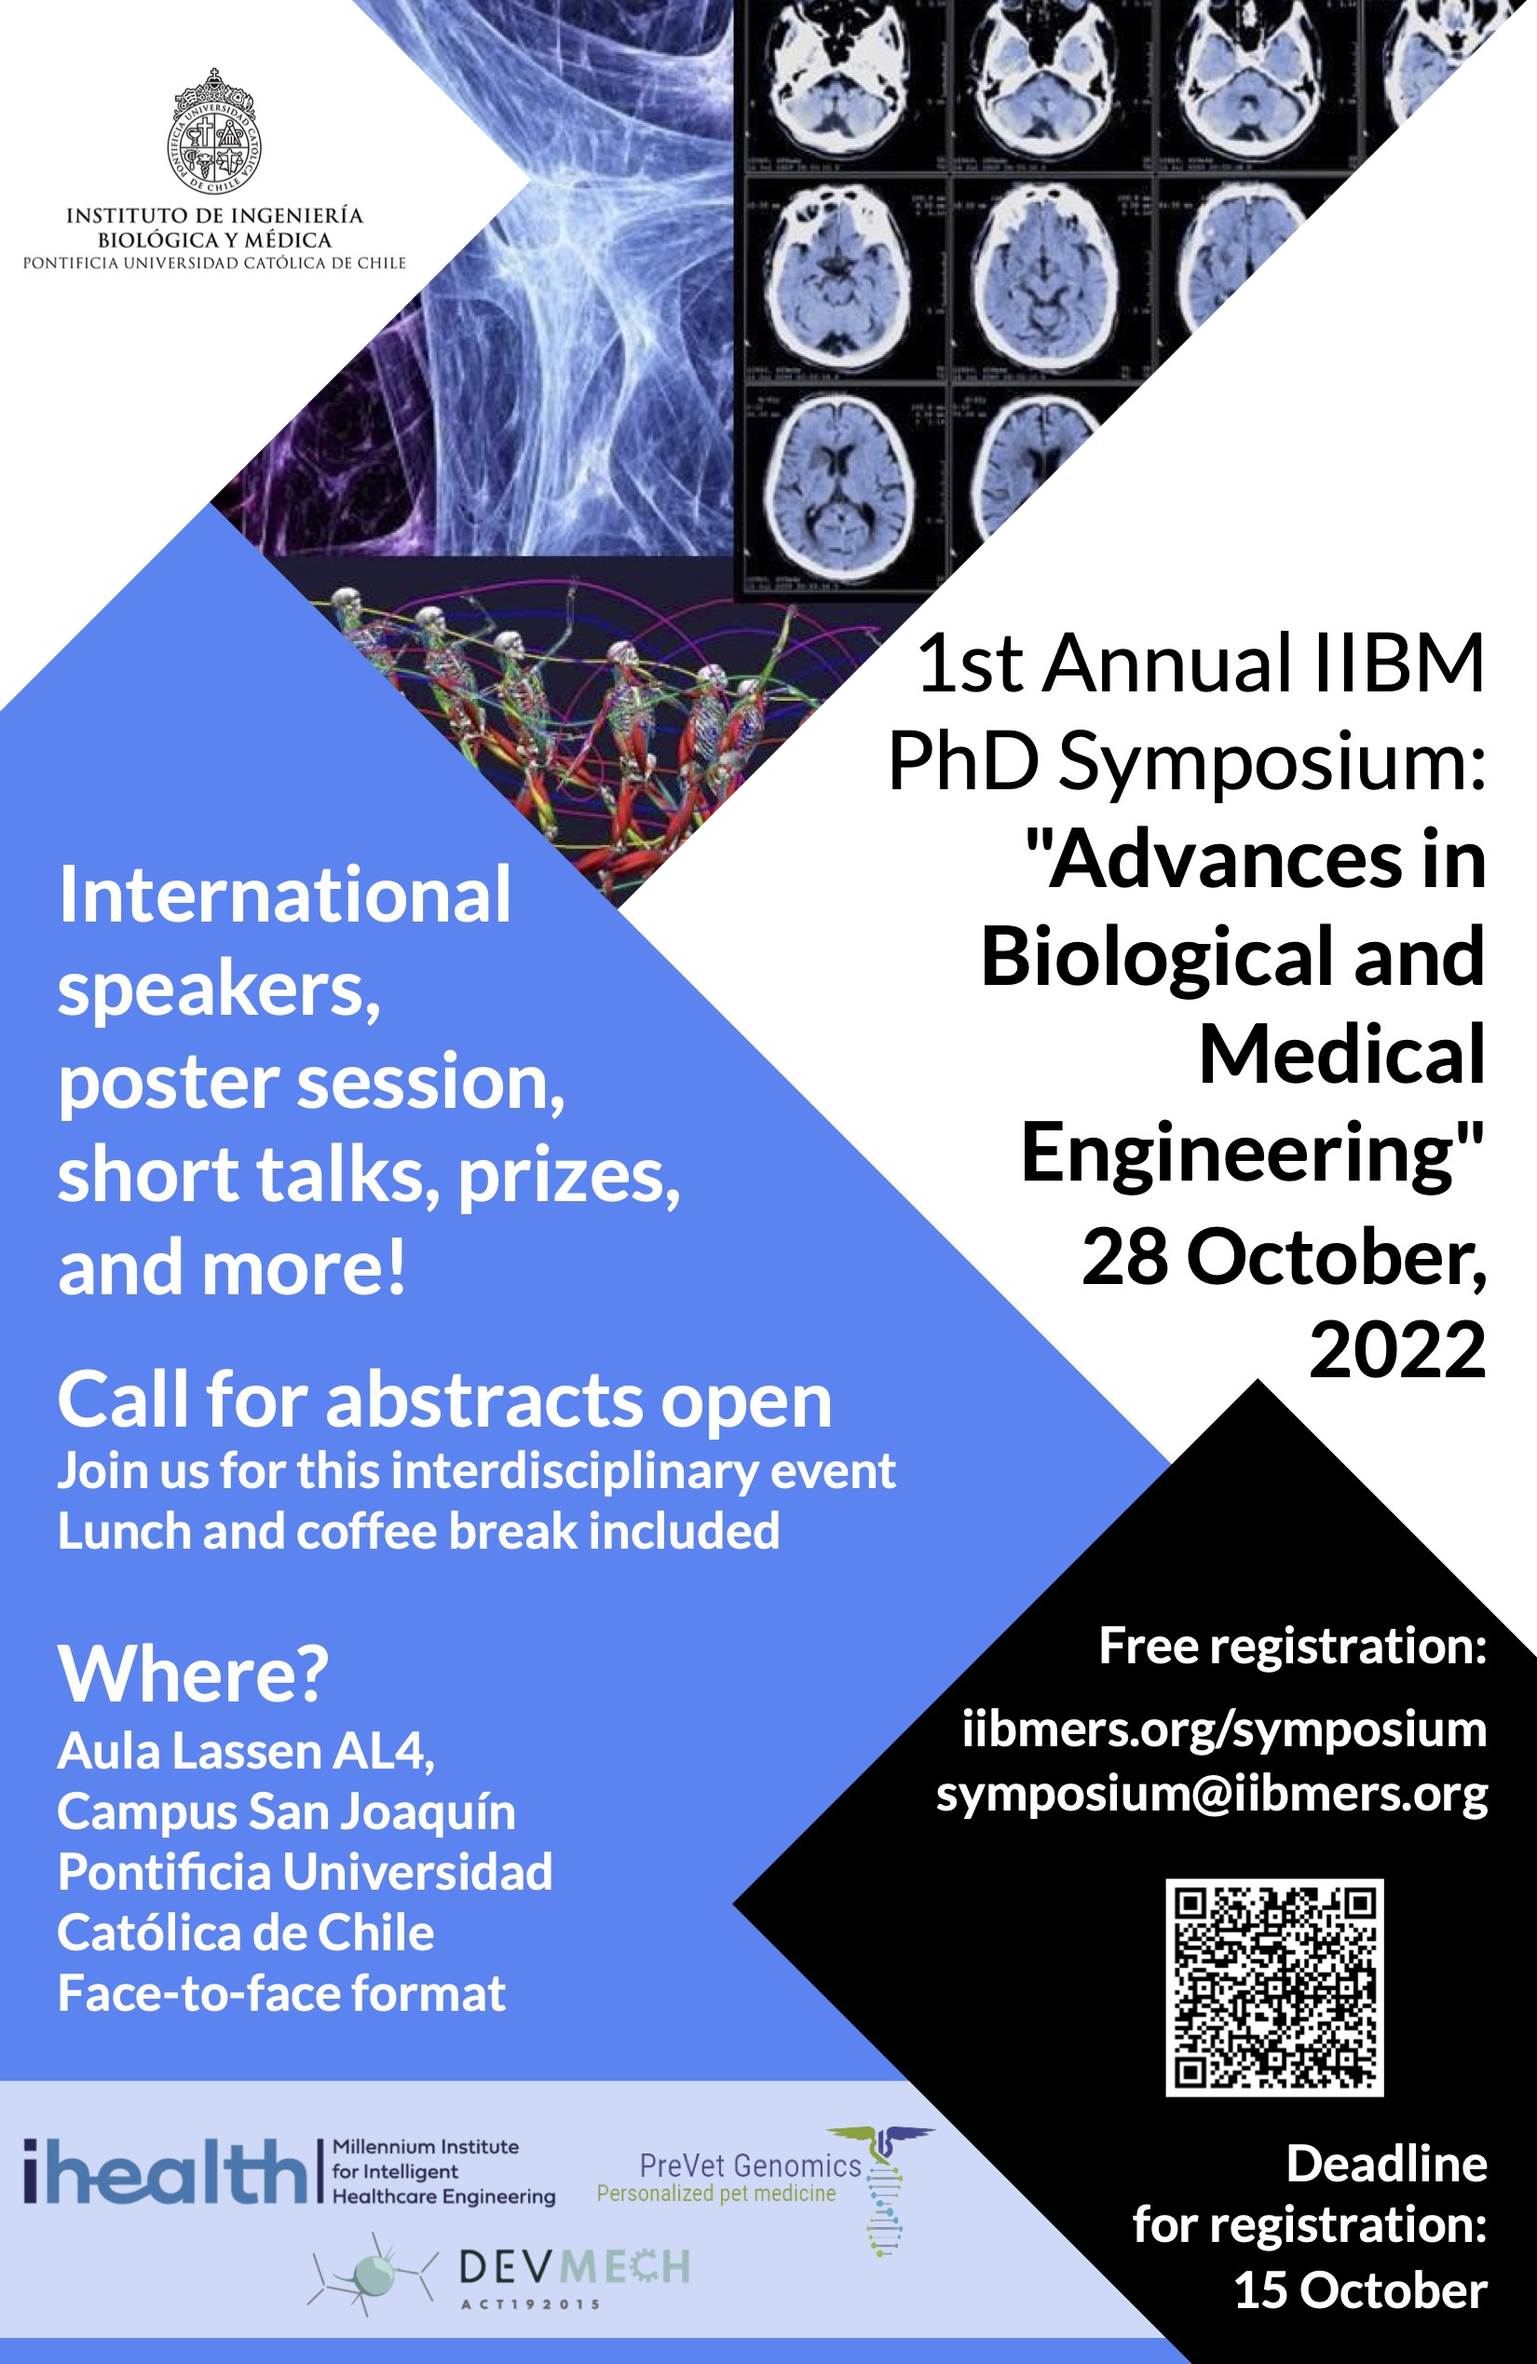
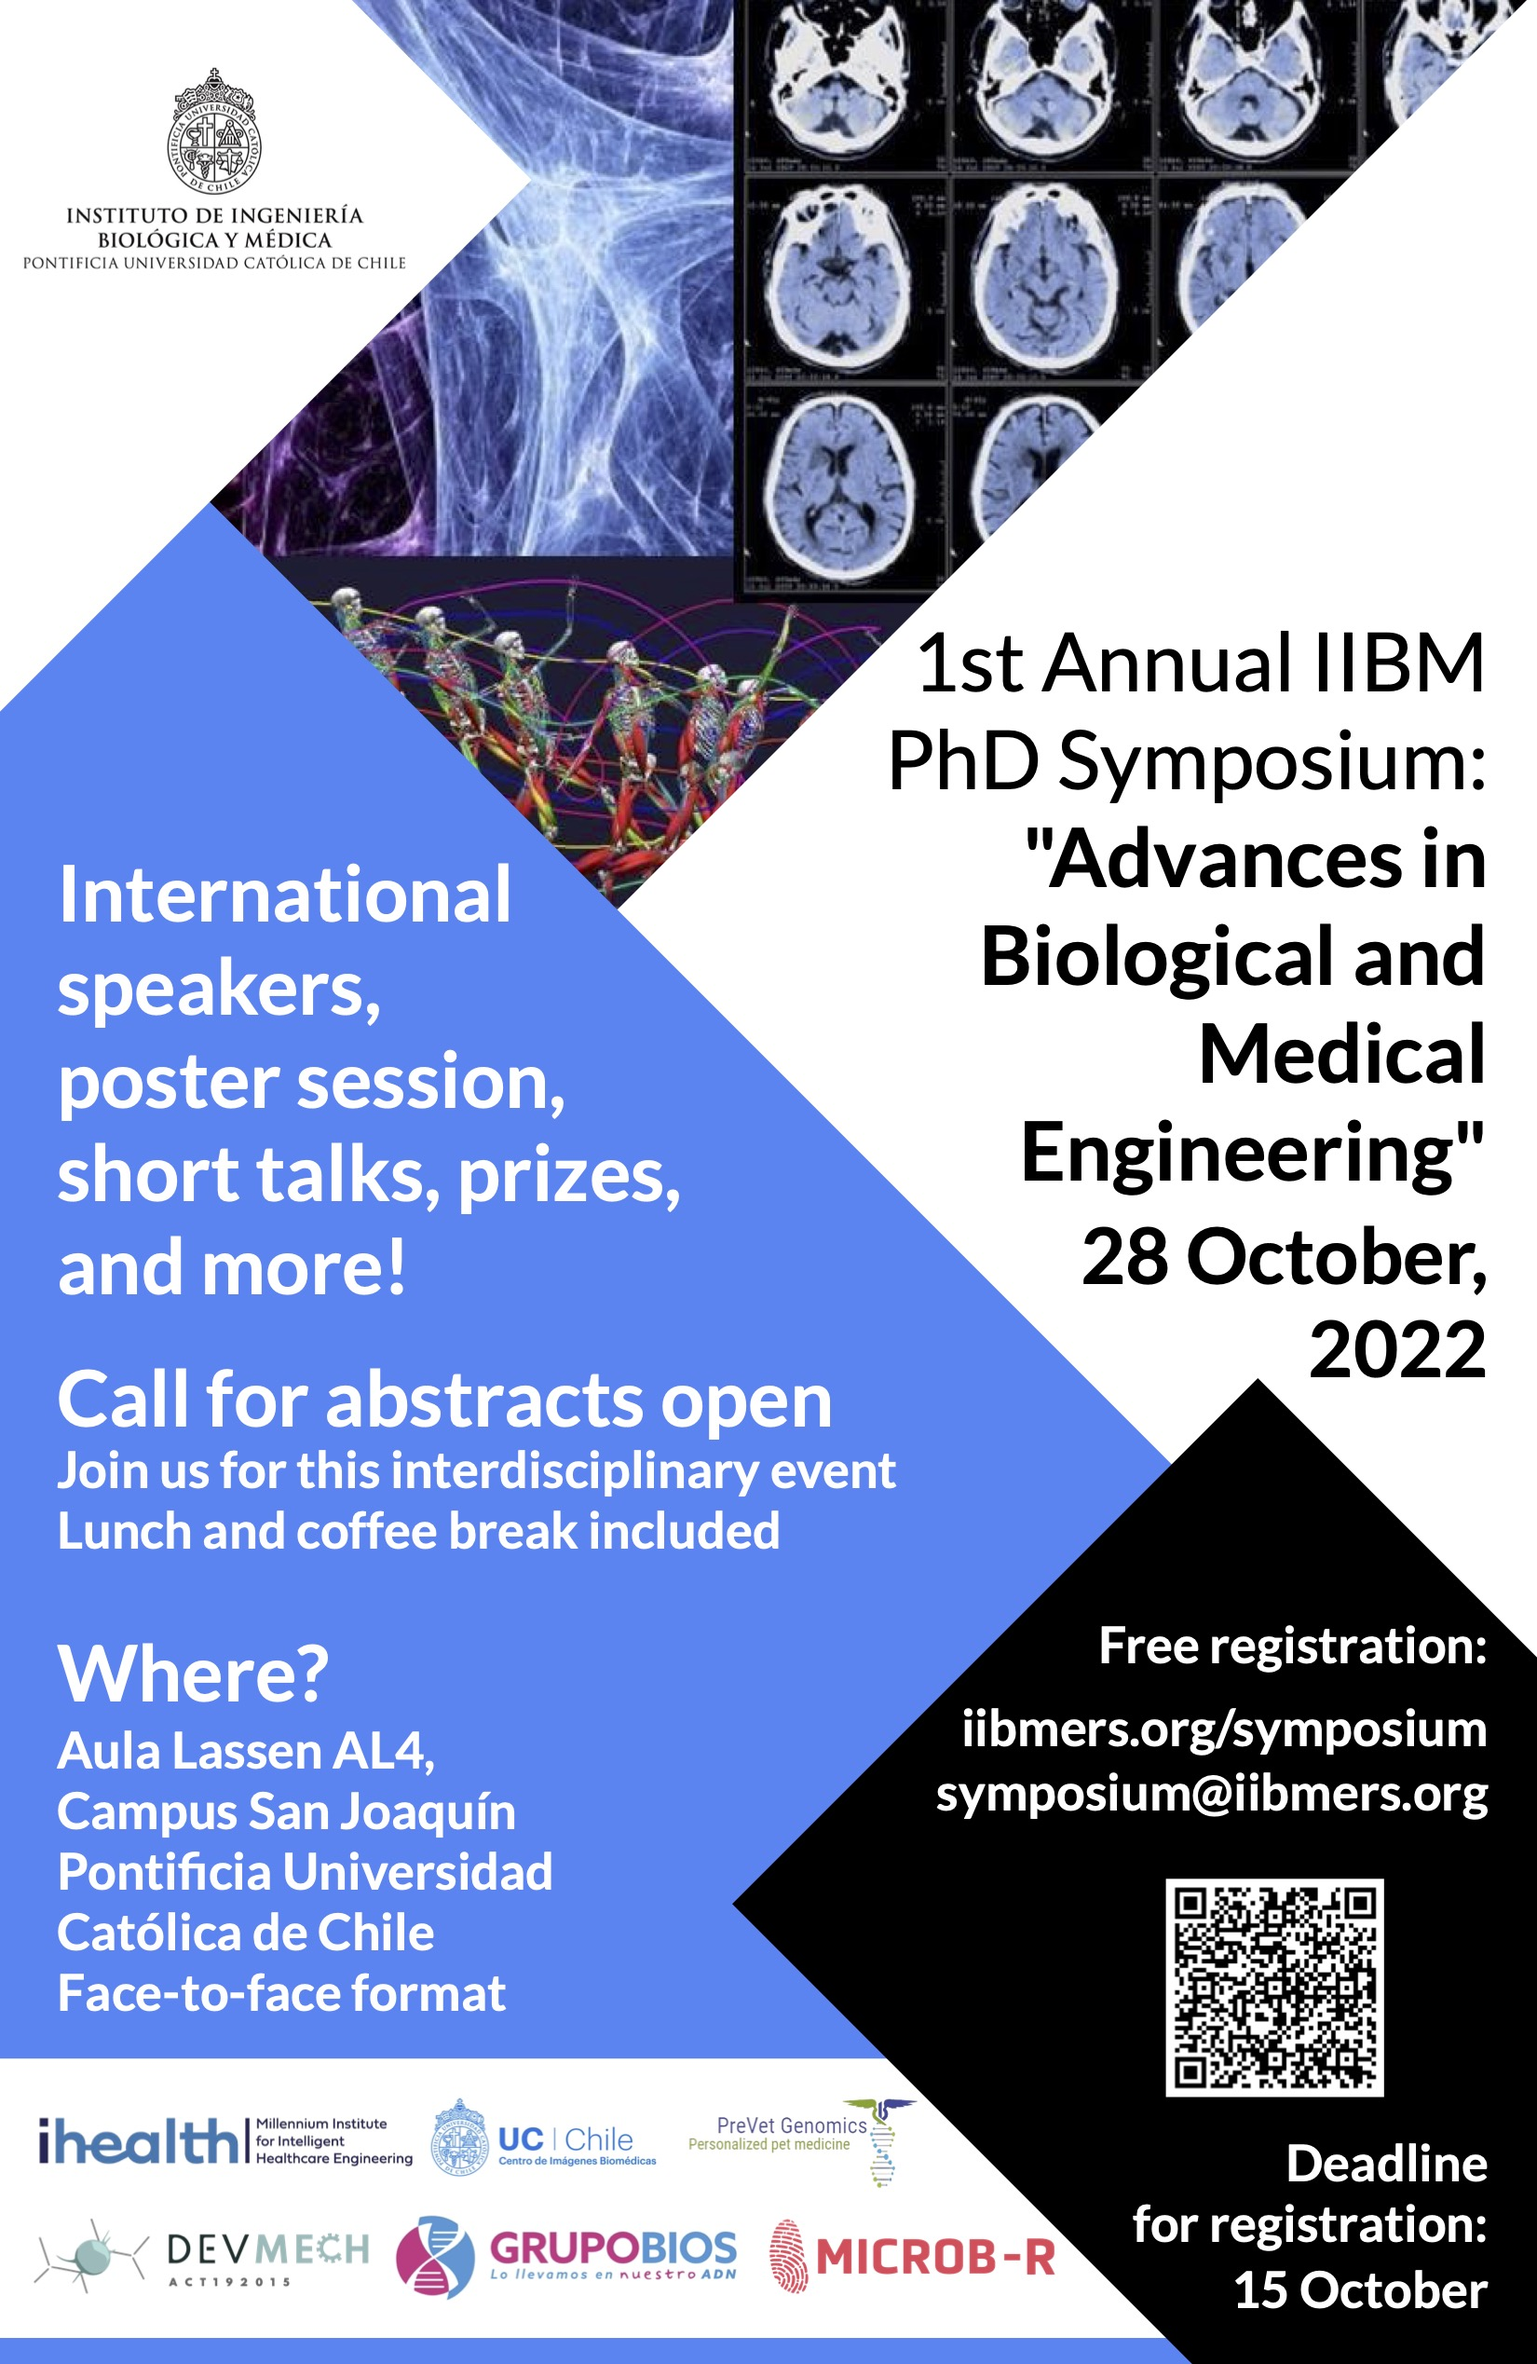
symposium info updated

Changed region(s): [[0.0, 0.8719, 0.7418, 0.9965]]

diff --git a/content/english/blog/symposium2022.md b/content/english/blog/symposium2022.md
@@ -23,6 +23,84 @@ Greetings to all,
 
 Organizers of the Symposium on Advances in Biological and Medical Engineering.
 
+<br>
+
+---
+## [[REGISTER HERE]](https://docs.google.com/forms/d/e/1FAIpQLScWd99QfeN7Bclo84diGkjwagbFvLPgigjAqepPX7T96gCUbw/viewform "Go to registration form") &nbsp; [[ANNUAL SYMPOSIUM PROJECT]]({{< ref "/projects/symposium2022" >}} "Go to the project's page")
 ---
 
-#### [[REGISTER HERE]](https://docs.google.com/forms/d/e/1FAIpQLScWd99QfeN7Bclo84diGkjwagbFvLPgigjAqepPX7T96gCUbw/viewform "Go to registration form") | [[ANNUAL SYMPOSIUM PROJECT]]({{< ref "/projects/symposium2022" >}} "Go to the project's page")
+<br>
+
+#### __Timetable:__
+
+<style>
+table {
+  border-collapse: collapse;
+  color: #333333;
+}
+td, th {
+  text-align: center;
+  border: 1px solid #333333;
+  padding: 0 .2em;
+  padding: 0px 10px;
+}
+</style>
+<table>
+ <tr>
+   <td>9:30 - 10:00</td>
+   <td>Welcome</td>
+ </tr>
+ <tr>
+   <td>10:00 - 10:40</td>
+   <td>Keynote speaker</td>
+ </tr>
+ <tr>
+   <td>10:40 - 11:15</td>
+   <td>Coffee break & poster session</td>
+ </tr>
+ <tr>
+   <td>11:15 - 12:50</td>
+   <td>3 min PhD. students presentations</td>
+ </tr>
+ <tr>
+   <td>12:50 - 14:00</td>
+   <td>Lunch break</td>
+ </tr>
+ <tr>
+   <td>14:00 - 14:40</td>
+   <td>Keynote speaker</td>
+ </tr>
+ <tr>
+   <td>14:40 - 15:10</td>
+   <td>3 min PhD. students presentations</td>
+ </tr>
+ <tr>
+   <td>15:10 - 15:45</td>
+   <td>Coffee break & poster session</td>
+ </tr>
+ <tr>
+   <td>15:45 - 16:45</td>
+   <td>3 min PhD. students presentations</td>
+ </tr>
+ <tr>
+   <td>16:45 - 17:20</td>
+   <td>Final poster session & awards</td>
+ </tr>
+</table>
+
+<br>
+
+#### __Keynote speakers:__
+
+__Shinji Deguchi, Ph.D.__, Professor, Division of Bioengineering, Graduate School of Engineering Science, Osaka University.
+
+__Title__: "Evaluating cellular force using machine learning for mechanobiology and drug screening"
+
+
+__Abstract:__
+Recent progress in understanding the essential roles of mechanical forces in regulating various cellular functions expands the field of cell biology to one where interdisciplinary approaches, in addition to conventional molecular biology approaches, become indispensable. Cellular traction forces (CTF) – generated in proliferative cells including cancer cells – are one of such mechanical forces that regulate the function of the cells, and thus the evaluation of the forces using engineering techniques is becoming a key for better understanding of the complicated phenomena of the cells. CTF is created with the activity of ubiquitous proteins known as non-muscle actin and myosin II, but because these proteins work downstream of diverse signaling pathways, it is often difficult to predict how the CTF changes upon perturbations to particular molecules such as gene mutations and drugs. Here I will talk about our new technology with a high-throughput data analysis capability to determine whether the CTF is up-regulated or down-regulated upon perturbations. For this experiment, we plate cells on deformable substrates, in which “wrinkles” are generated on the surface upon the exertion of CTF. These wrinkles are detected and finally converted to the actual mechanical force by using a machine learning technique. This technology allows us to comprehensively evaluate the change in cell function/disease-associated CTF caused by mutations, knockdown, or over-expression of particular genes and how those changes are enhanced or rescued by means of drugs.
+
+---
+#### __Links to sponsors:__
+
+#### [ihealth](https://i-health.cl/en/ "Go to ihealth") &nbsp; [devmech](https://adtopia.cl/portfolio/devmech/) &nbsp; [uc cibb](https://centroimagenesbiomedicas.uc.cl/en/home/) &nbsp; [grupo bios](https://grupobios.cl/es/) &nbsp; [microb-r](https://microb-r.org/)

diff --git a/content/english/projects/symposium2022.md b/content/english/projects/symposium2022.md
@@ -10,6 +10,8 @@ information:
     info: "To be announced"
   - label: "International speaker"
     info: "Shinji Deguchi, Osaka University, Japan."
+  - label: "In-house speaker"
+    info: "Claudia Prieto, P. Catholic University of Chile, Chile."
   - label: "Generous prizes"
     info: "Three (3) best oral contributions, three (3) best posters!"
   - label : "Location"
@@ -43,8 +45,20 @@ Greetings to all,
 
 Organizers of the Symposium on Advances in Biological and Medical Engineering.
 
+<br>
+
+---
+## [REGISTER HERE](https://docs.google.com/forms/d/e/1FAIpQLScWd99QfeN7Bclo84diGkjwagbFvLPgigjAqepPX7T96gCUbw/viewform "Go to registration form") (first-come, first-served)
+
+__Posters:__ Dimensions to be announced.
+
+__Presentations:__ 3 minutes duration.
+
 ---
 
+<br>
+
+#### __Timetable:__
 
 <style>
 table {
@@ -59,9 +73,6 @@ td, th {
 }
 </style>
 <table>
- <tr>
-   <th colspan="2">Timetable</th>
- </tr>
  <tr>
    <td>9:30 - 10:00</td>
    <td>Welcome</td>
@@ -104,10 +115,19 @@ td, th {
  </tr>
 </table>
 
----
-## [REGISTER HERE](https://docs.google.com/forms/d/e/1FAIpQLScWd99QfeN7Bclo84diGkjwagbFvLPgigjAqepPX7T96gCUbw/viewform "Go to registration form") (first-come, first-served)
----
+<br>
 
+#### __Keynote speakers:__
+
+__Shinji Deguchi, Ph.D.__, Professor, Division of Bioengineering, Graduate School of Engineering Science, Osaka University.
+
+__Title__: "Evaluating cellular force using machine learning for mechanobiology and drug screening"
+
+
+__Abstract:__
+Recent progress in understanding the essential roles of mechanical forces in regulating various cellular functions expands the field of cell biology to one where interdisciplinary approaches, in addition to conventional molecular biology approaches, become indispensable. Cellular traction forces (CTF) – generated in proliferative cells including cancer cells – are one of such mechanical forces that regulate the function of the cells, and thus the evaluation of the forces using engineering techniques is becoming a key for better understanding of the complicated phenomena of the cells. CTF is created with the activity of ubiquitous proteins known as non-muscle actin and myosin II, but because these proteins work downstream of diverse signaling pathways, it is often difficult to predict how the CTF changes upon perturbations to particular molecules such as gene mutations and drugs. Here I will talk about our new technology with a high-throughput data analysis capability to determine whether the CTF is up-regulated or down-regulated upon perturbations. For this experiment, we plate cells on deformable substrates, in which “wrinkles” are generated on the surface upon the exertion of CTF. These wrinkles are detected and finally converted to the actual mechanical force by using a machine learning technique. This technology allows us to comprehensively evaluate the change in cell function/disease-associated CTF caused by mutations, knockdown, or over-expression of particular genes and how those changes are enhanced or rescued by means of drugs.
+
+---
 #### __Links to sponsors:__
 
-#### [ihealth](https://i-health.cl/en/ "Go to ihealth") [devmech](https://adtopia.cl/portfolio/devmech/)
+#### [ihealth](https://i-health.cl/en/ "Go to ihealth") &nbsp; [devmech](https://adtopia.cl/portfolio/devmech/) &nbsp; [uc cibb](https://centroimagenesbiomedicas.uc.cl/en/home/) &nbsp; [grupo bios](https://grupobios.cl/es/) &nbsp; [microb-r](https://microb-r.org/)
